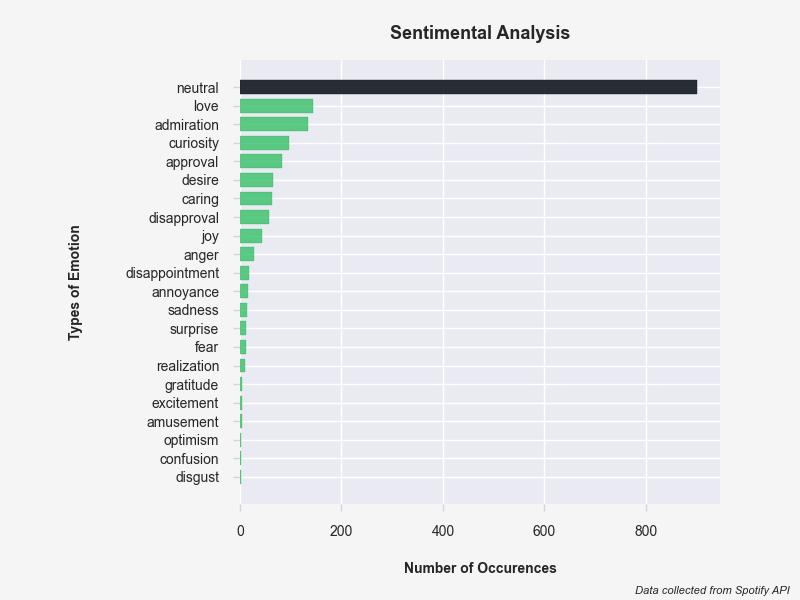
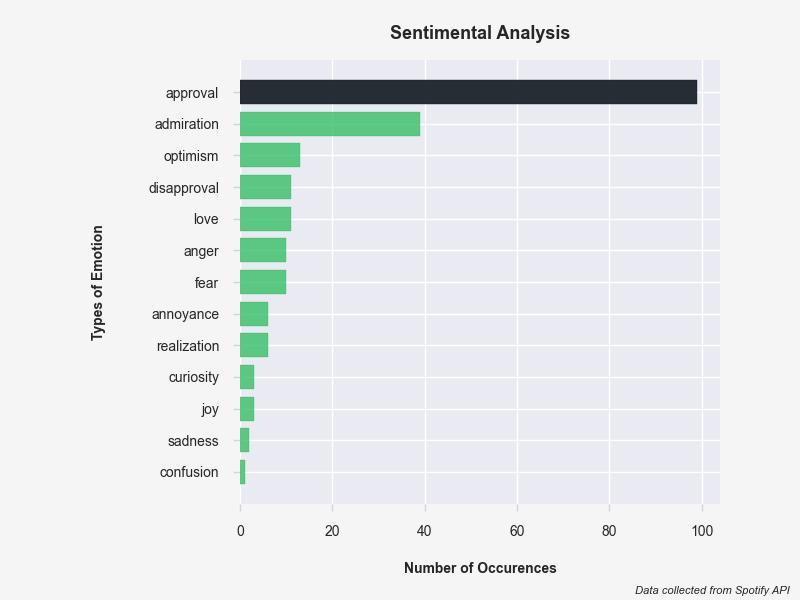
Added a one time-frame.

diff --git a/argon-design-system-react/src/views/examples/Data.js b/argon-design-system-react/src/views/examples/Data.js
@@ -59,7 +59,7 @@ import { Alert } from "reactstrap";
 // List of emotion to select from dropdown
 const emotions = ["Admiration", "Amusement", "Anger", "Annoyance", "Approval", "Caring", "Confusion", "Curiosity", "Desire", "Disappointment", 'Disapproval', 'Disgust', 'Embarrassment', "Excitement", "Fear", "Gratitude", "Grief", "Joy", "Love", "Nervousness", "Optimism", "Pride", "Realization", "Relief", "Remorse", "Sadness", "Surprise", "Neutral"];
 // List of time ranges to select from dropdown
-const timeframe = [5, 10, 15, 20, 25, 30, 35, 40, 45, 50]
+const timeframe = [1, 5, 10, 15, 20, 25, 30, 35, 40, 45, 50]
 
 const host = "127.0.0.1"
 const port = '8081'
